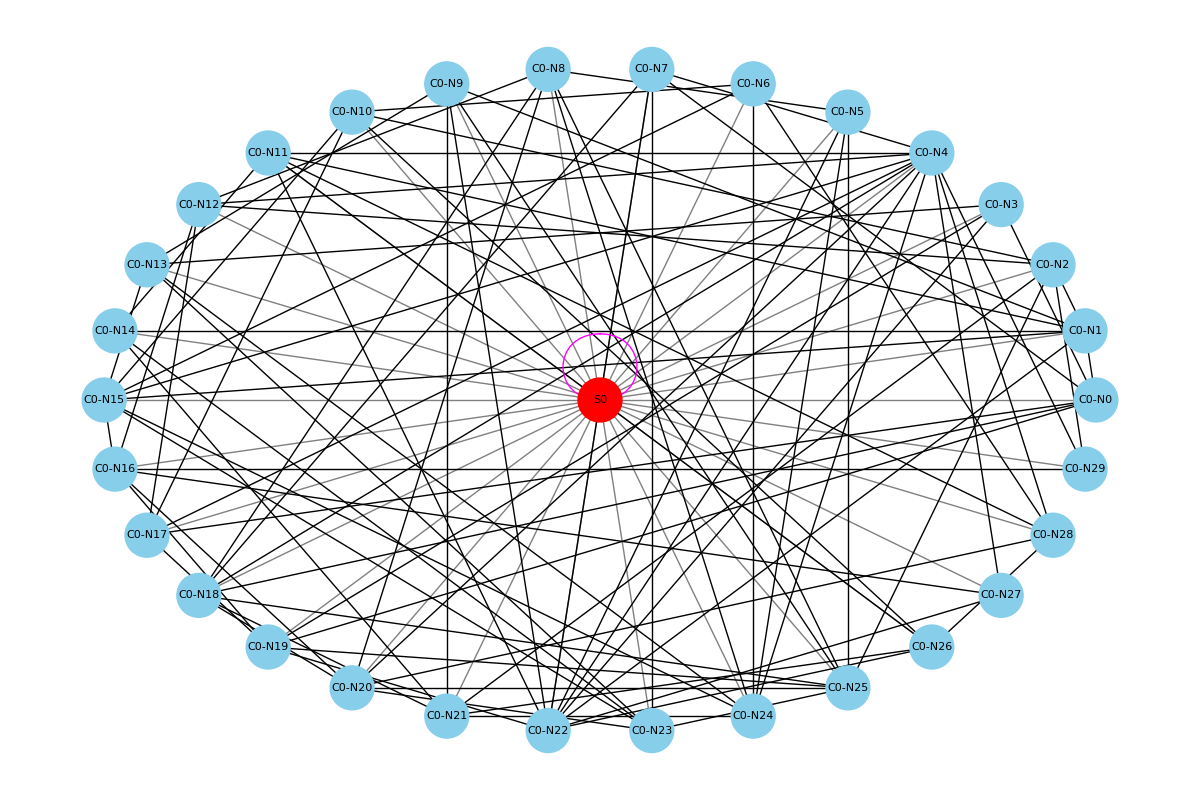
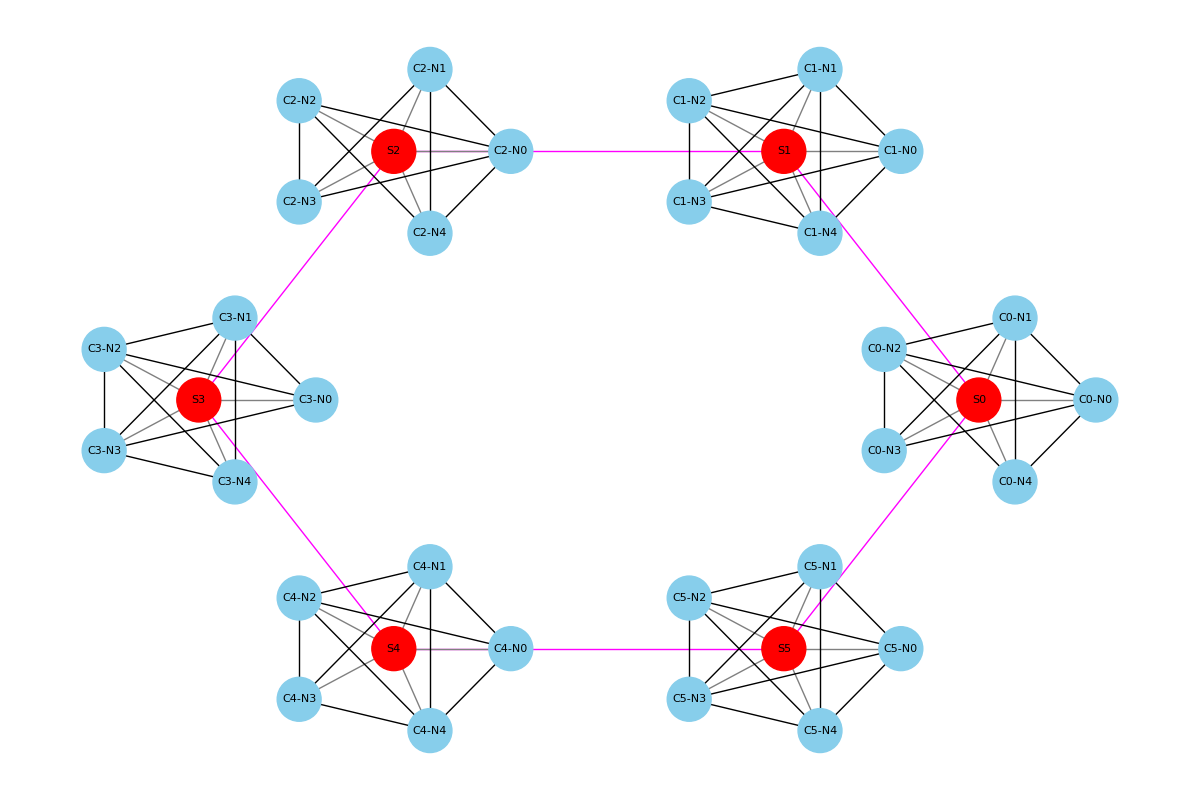
before csv

Changed region(s): [[0.0617, 0.0625, 0.925, 0.9375]]

diff --git a/simulation/run_simulation.py b/simulation/run_simulation.py
@@ -8,6 +8,8 @@ from config.paths import get_experiment_root
 import os
 import math
 import networkx as nx
+from tqdm import tqdm
+from itertools import count
 
 
 import math
@@ -151,48 +153,56 @@ def print_summary(clusters):
     # Also print to console
     print("".join(summary_lines))
 
-def run_simulation(model, target_class):
+def run_simulation(model, target_class, replicate_id):
     print("🔄 Starting evolution process...")
 
     clusters = initialize_clusters(model, target_class)
-
-    # Visualize the initial topology
     visualize_topology(clusters, out_path="topology.png")
-
-
     candc = CommandAndControl()
 
-    # Link supernodes as peers
+    # Link supernodes
     supernodes = [supernode for supernode, _ in clusters]
     for supernode in supernodes:
         supernode.set_peers(supernodes)
 
-    # Register all nodes
+    # Register nodes
     for _, nodes in clusters:
         for node in nodes:
             candc.assign_node(node)
 
-    round_num = 0
-    while not candc.terminated:
-        print(f"\n🌀 Round {round_num}")
-        for _, nodes in clusters:
-            for node in nodes:
+    # ✅ Outer tqdm for rounds
+    for round_num in tqdm(count(), desc="🌱 Rounds", position=0, leave=True):
+        if candc.terminated:
+            break
+
+        # ✅ Inner tqdm for nodes within round
+        all_nodes = [node for _, nodes in clusters for node in nodes]
+        with tqdm(all_nodes, desc=f"⚙  Evolving Nodes (Round {round_num})", position=1, leave=False) as node_bar:
+            for node in node_bar:
                 node.evolve(round_num=round_num)
                 candc.check_termination()
                 if candc.terminated:
-                    print("🎯 A node has reached the threshold. Stopping now.")
+                    node_bar.set_description("🎯 Termination triggered")
                     break
-            if candc.terminated:
-                break
 
-        # Supernode communication
+        # 📊 Track & show confidence live in outer tqdm
+        best_conf = 0.0
+        for _, nodes in clusters:
+            for node in nodes:
+                if node.best_solution is not None:
+                    conf = evaluate_fitness(node.best_solution, node.model, node.target_class)
+                    best_conf = max(best_conf, conf)
+
+        tqdm.write(f"Round {round_num} done. Best confidence so far: {best_conf:.4f}")
+        tqdm._instances.clear()  # fixes overlapping bars sometimes
+
+        # 🔁 Supernode sync
         if round_num % config.supernode_sync_interval == 0:
-            print(f"\n🌐 Supernode syncing at round {round_num}")
             for supernode, _ in clusters:
                 supernode.sync_with_peers()
 
-        round_num += 1
-
-    print("\n✅ Simulation ended (terminated =", candc.terminated, ")")
+    # Wrap up
     plot_combined_progress(clusters)
     print_summary(clusters)
+
+    

diff --git a/main.py b/main.py
@@ -1,15 +1,36 @@
-# /main.py
+import argparse
+from config import config
 from models.load_model import load_trained_model
 from simulation.run_simulation import run_simulation
-from config import config
-
 
 if __name__ == "__main__":
-    # Load the trained model
+    parser = argparse.ArgumentParser(description="Run Distributed Evolution Simulation")
+
+    # Override experiment structure
+    parser.add_argument("--clusters", type=int, default=config.clusters, help="Number of clusters")
+    parser.add_argument("--nodes_per_cluster", type=int, default=config.nodes_per_cluster, help="Number of nodes per cluster")
+
+    # Dataset and model
+    parser.add_argument("--dataset_name", type=str, default=config.dataset_name, help="Dataset to use (digits, mnist, fashion_mnist)")
+    parser.add_argument("--model_name", type=str, default=config.model_name, help="Model to use (SVM, RF, MLP, etc.)")
+
+    # replicate index
+    parser.add_argument("--replicate", type=int, default=0, help="replicate ID (used to track logs/output)")
+
+    # Optional target class override (if needed)
+    parser.add_argument("--target_class", type=int, default=0, help="Class to evolve toward")
+
+    args = parser.parse_args()
+
+    # Apply overrides to shared config
+    config.clusters = args.clusters
+    config.nodes_per_cluster = args.nodes_per_cluster
+    config.dataset_name = args.dataset_name
+    config.model_name = args.model_name
+    config.replicate = args.replicate  # if used elsewhere
+
+    print(f"🚀 Starting replicate {args.replicate} | Setup: {args.clusters}x{args.nodes_per_cluster} | Dataset: {args.dataset_name} | Model: {args.model_name}")
+
+    # Load model and run simulation
     model = load_trained_model()
-    
-    # Define target class to attack
-    target_class = 0  # Example: Trick classifier into predicting '8' instead of another digit
-    
-    # Run the simulation
-    run_simulation(model, target_class)
+    run_simulation(model, target_class=args.target_class, replicate_id=args.replicate)

diff --git a/core/node.py b/core/node.py
@@ -78,7 +78,7 @@ class Node:
                     self.population = neighbor.best_solution
                     self.best_fitness = neighbor_conf
                     self.best_solution = neighbor.best_solution
-                    print(f"📬 {self.global_id} adopted better solution from {neighbor.global_id} (conf={neighbor_conf:.4f})")
+                    # print(f"📬 {self.global_id} adopted better solution from {neighbor.global_id} (conf={neighbor_conf:.4f})")
 
     def evolve(self, round_num=None):
         for gen in range(config.max_generations):
@@ -100,7 +100,7 @@ class Node:
                 self.best_solution = mutated_image
 
             if mutated_confidence >= config.target_confidence:
-                print(f"🎯 {self.global_id} found a solution with confidence {mutated_confidence:.4f}")
+                # print(f"🎯 {self.global_id} found a solution with confidence {mutated_confidence:.4f}")
                 self.save_image(mutated_image, gen, mutated_confidence, round_num)
                 self.plot_confidence_progress(round_num)
                 return

diff --git a/core/supernode.py b/core/supernode.py
@@ -26,7 +26,7 @@ class SuperNode:
                         node.population = peer_best.best_solution
                         node.best_fitness = peer_best.best_fitness
                         node.best_solution = peer_best.best_solution
-                        print(f"🌐 SuperNode {self.supernode_id} pulled better solution from SuperNode {peer.supernode_id} for Node {node.global_id}")
+                        # print(f"🌐 SuperNode {self.supernode_id} pulled better solution from SuperNode {peer.supernode_id} for Node {node.global_id}")
 
     # def broadcast_best_solution(self):
     #     """(Optional) Broadcast best solution to all local nodes."""

diff --git a/config/config.py b/config/config.py
@@ -1,15 +1,15 @@
 # /config/config.py
 
 # System parameters
-clusters = 1
-nodes_per_cluster = 30
+clusters = 6
+nodes_per_cluster = 5
 neighbors_per_node = 3
 
 # Evolution parameters
 # population_size = 50
 mutation_rate = 0.5
 max_generations = 100
-target_confidence = 0.995
+target_confidence = 0.95
 
 # Communication parameters
 buffer_size = 10
@@ -23,6 +23,9 @@ recovery_time = 3
 # Dataset & Model Info
 dataset_name = "fashion_mnist"  # or #"digits", "mnist", "fashion_mnist", etc.
 model_name = "SVM"
+
+# replicate ID (for logging purposes)
+replicate = 1
 
 # After training, these will be set automatically
 model_file = None

diff --git a/config/paths.py b/config/paths.py
@@ -5,6 +5,7 @@ from config import config
 
 def get_experiment_root():
     """
-    E.g. 'results/digits_SVM' or 'results/mnist_MLP'
+    E.g. 'results/fashion_mnist_SVM/rep3'
     """
-    return os.path.join("results", f"{config.dataset_name}_{config.model_name}")
+    base = f"{config.dataset_name}_{config.model_name}"
+    return os.path.join("results", base, f"rep{config.replicate}")
